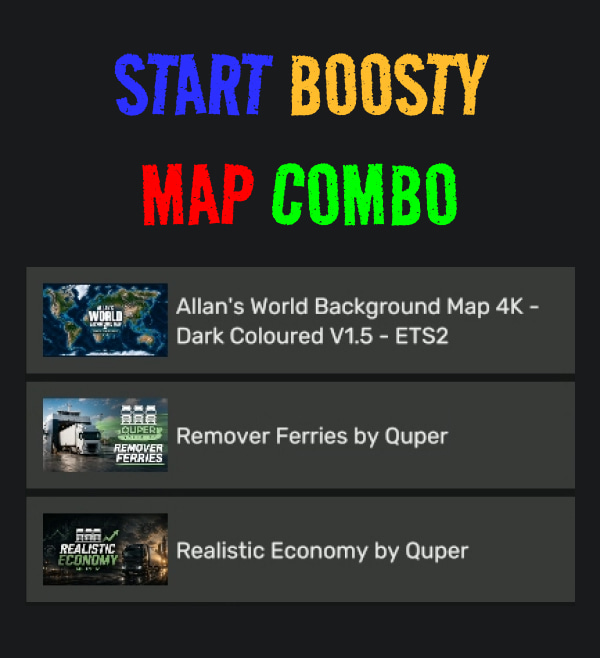
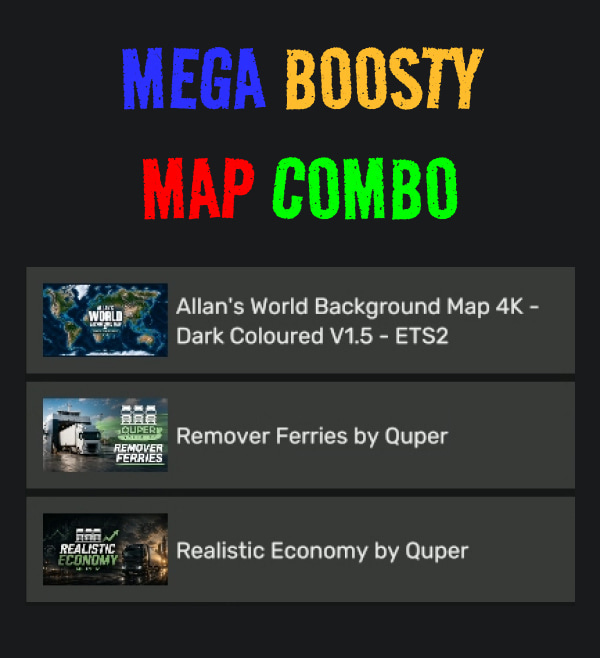
upd

Changed region(s): [[0.18, 0.0608, 0.81, 0.1824], [0.45, 0.2128, 0.78, 0.3647], [0.24, 0.2432, 0.42, 0.3647]]

diff --git a/src/data/combos/v1.61.js b/src/data/combos/v1.61.js
@@ -2,7 +2,7 @@ export const combos_v1_61 = [
   {
     id: "mega-boosty-map-161",
     tags: ["ets2", "boosty"],
-    title: "START BOOSTY MAP COMBO",
+    title: "MEGA BOOSTY MAP COMBO",
     preview: "img/combos/161/ets2-mega-boosty/mega-boosty-preview.jpg",
     automods: true,
     //mods: true,
@@ -16,5 +16,23 @@ export const combos_v1_61 = [
       "https://boosty.to/qupersimulator/posts/227e6b8e-edfe-40d3-aaff-4593d4447947",
     profile:
       "https://sharemods.com/xqaij1kyjqus/1.61_ETS2_START_COMBO_MAP_1.3.zip.html",
+  },
+  {
+    id: "mega-map-161",
+    tags: ["ets2"],
+    title: "MEGA MAP COMBO",
+    preview: "img/combos/161/ets2-mega-boosty/mega-boosty-preview.jpg",
+    automods: true,
+    //mods: true,
+    version_game: "1.61",
+    version: "1.3",
+    date: "22.09.26",
+    //video: "b7eAwWEoPxg",
+    image_top: "img/combos/161/ets2-mega-boosty/mega-boosty-top.jpg",
+    image_bottom: "img/combos/161/ets2-mega-boosty/mega-boosty-bottom.jpg",
+    table:
+      "https://docs.google.com/spreadsheets/d/1VFj7KxcfsTVbuHMkHR9KKn_Zb8qDGuMSzEfDV3icBs4/edit?usp=sharing",
+    profile:
+      "https://sharemods.com/bavgqbukpk8y/1.61_ETS2_MEGA_COMBO_MAP_1.3.zip.html",
   },
 ];
